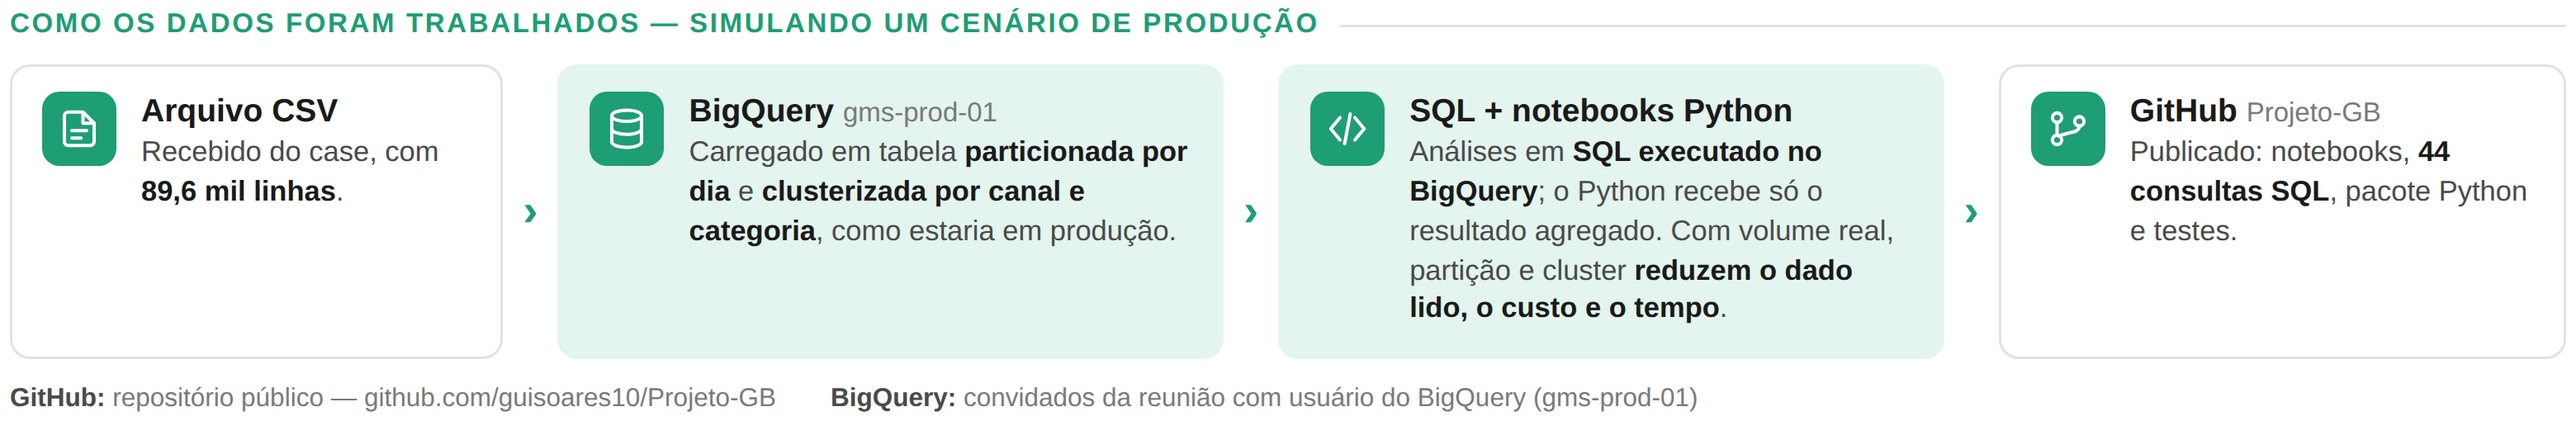
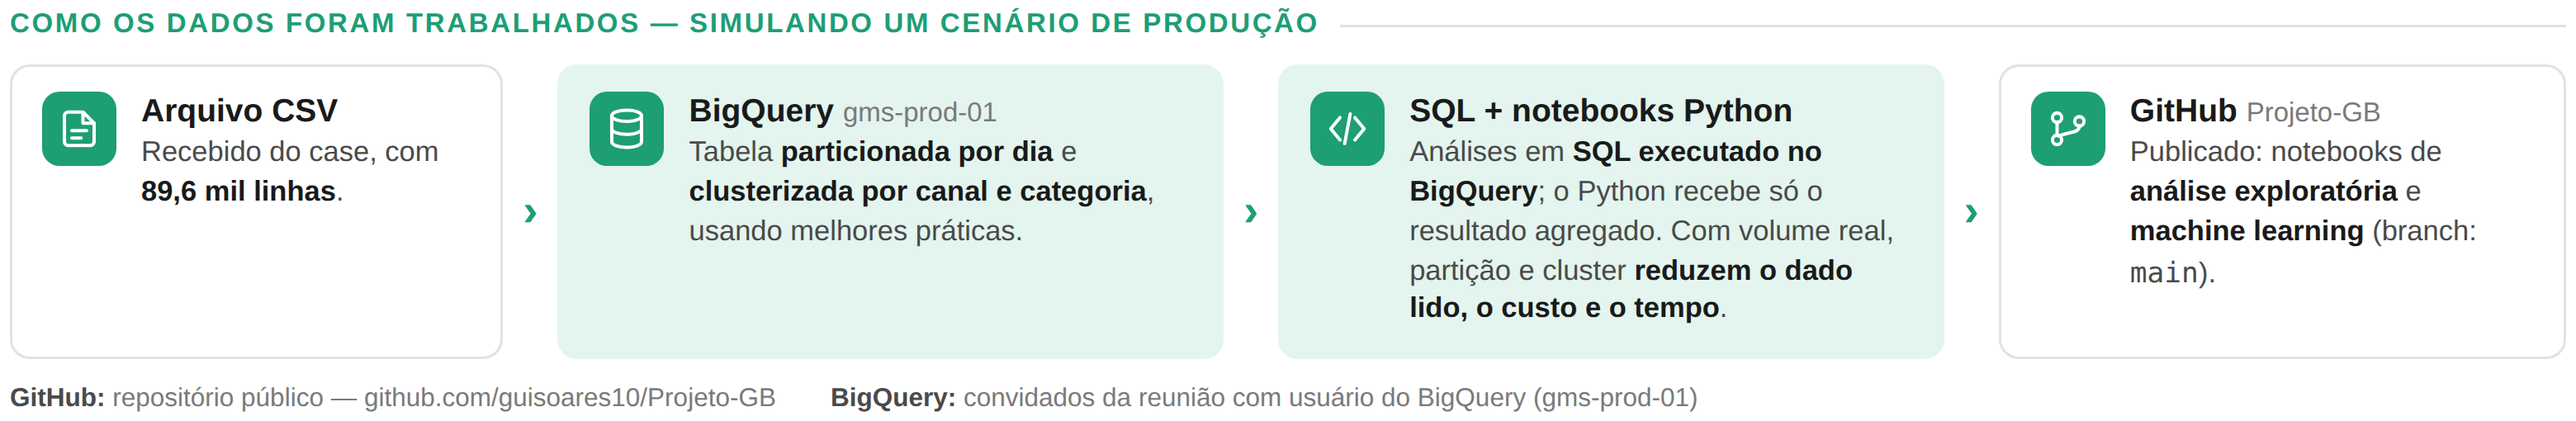
Widget do fluxo: textos do BigQuery e do GitHub
Claude-Session: https://claude.ai/code/session_01NUJZKTcM8cs9QBTcUeuacF

diff --git a/apresentacao/widgets/01_resumo_fluxo.html b/apresentacao/widgets/01_resumo_fluxo.html
@@ -54,7 +54,7 @@
       <div class="icone"><svg viewBox="0 0 24 24"><ellipse cx="12" cy="5" rx="8" ry="3"/><path d="M4 5v14c0 1.7 3.6 3 8 3s8-1.3 8-3V5"/><path d="M4 12c0 1.7 3.6 3 8 3s8-1.3 8-3"/></svg></div>
       <div>
         <div class="titulo">BigQuery <small>gms-prod-01</small></div>
-        <div class="texto">Carregado em tabela <b>particionada por dia</b> e <b>clusterizada por canal e categoria</b>, como estaria em produção.</div>
+        <div class="texto">Tabela <b>particionada por dia</b> e <b>clusterizada por canal e categoria</b>, usando melhores práticas.</div>
       </div>
     </div>
     <div class="seta">›</div>
@@ -72,7 +72,7 @@
       <div class="icone"><svg viewBox="0 0 24 24"><circle cx="6" cy="6" r="2.5"/><circle cx="6" cy="18" r="2.5"/><circle cx="18" cy="8" r="2.5"/><path d="M6 8.5v7"/><path d="M18 10.5c0 4-6 3-11 5.5"/></svg></div>
       <div>
         <div class="titulo">GitHub <small>Projeto-GB</small></div>
-        <div class="texto">Publicado: notebooks, <b>44 consultas SQL</b>, pacote Python e testes.</div>
+        <div class="texto">Publicado: notebooks de <b>análise exploratória</b> e <b>machine learning</b> (branch: <code style="font-family:Consolas,monospace">main</code>).</div>
       </div>
     </div>
   </div>
